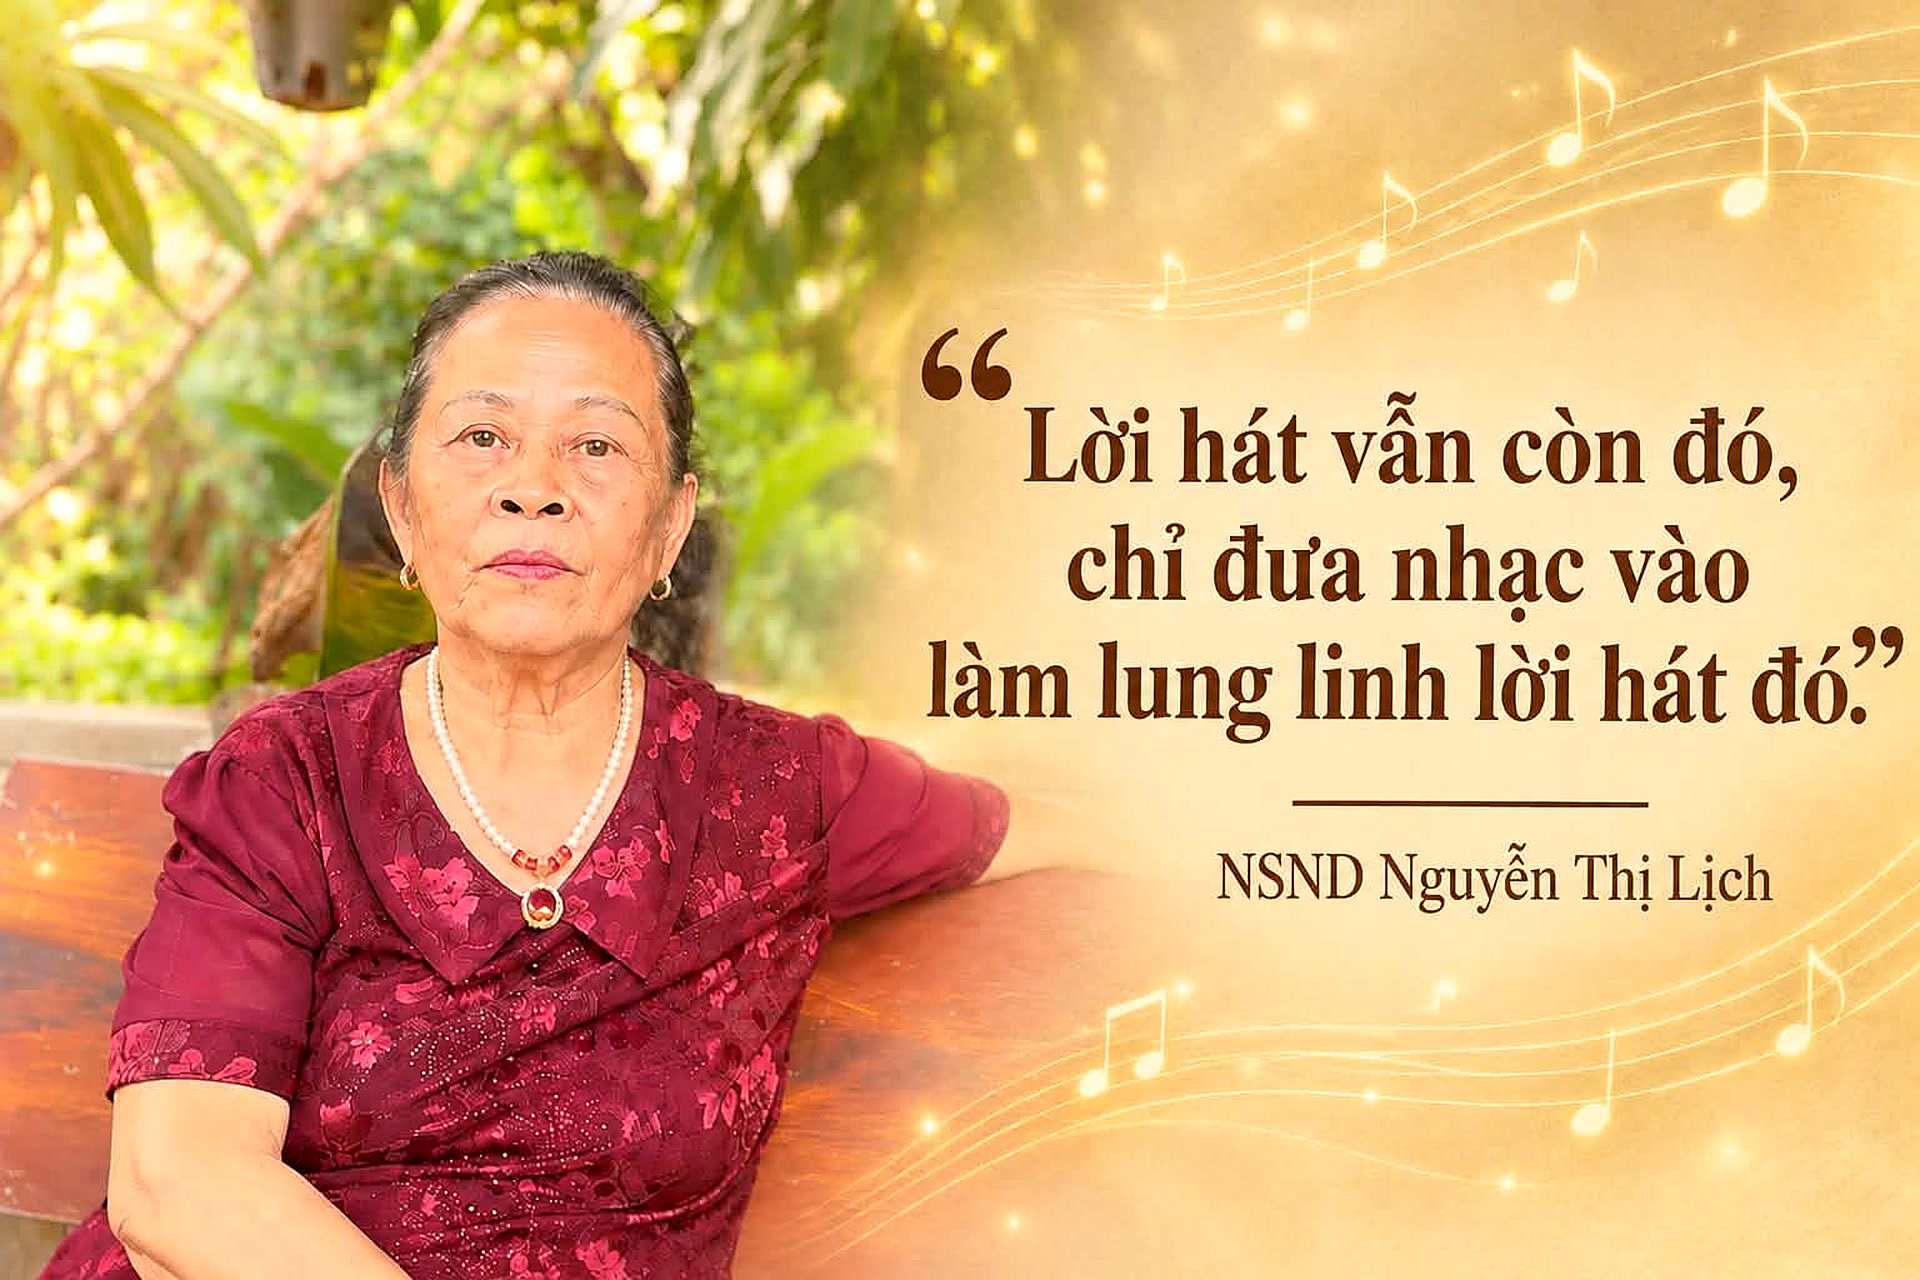
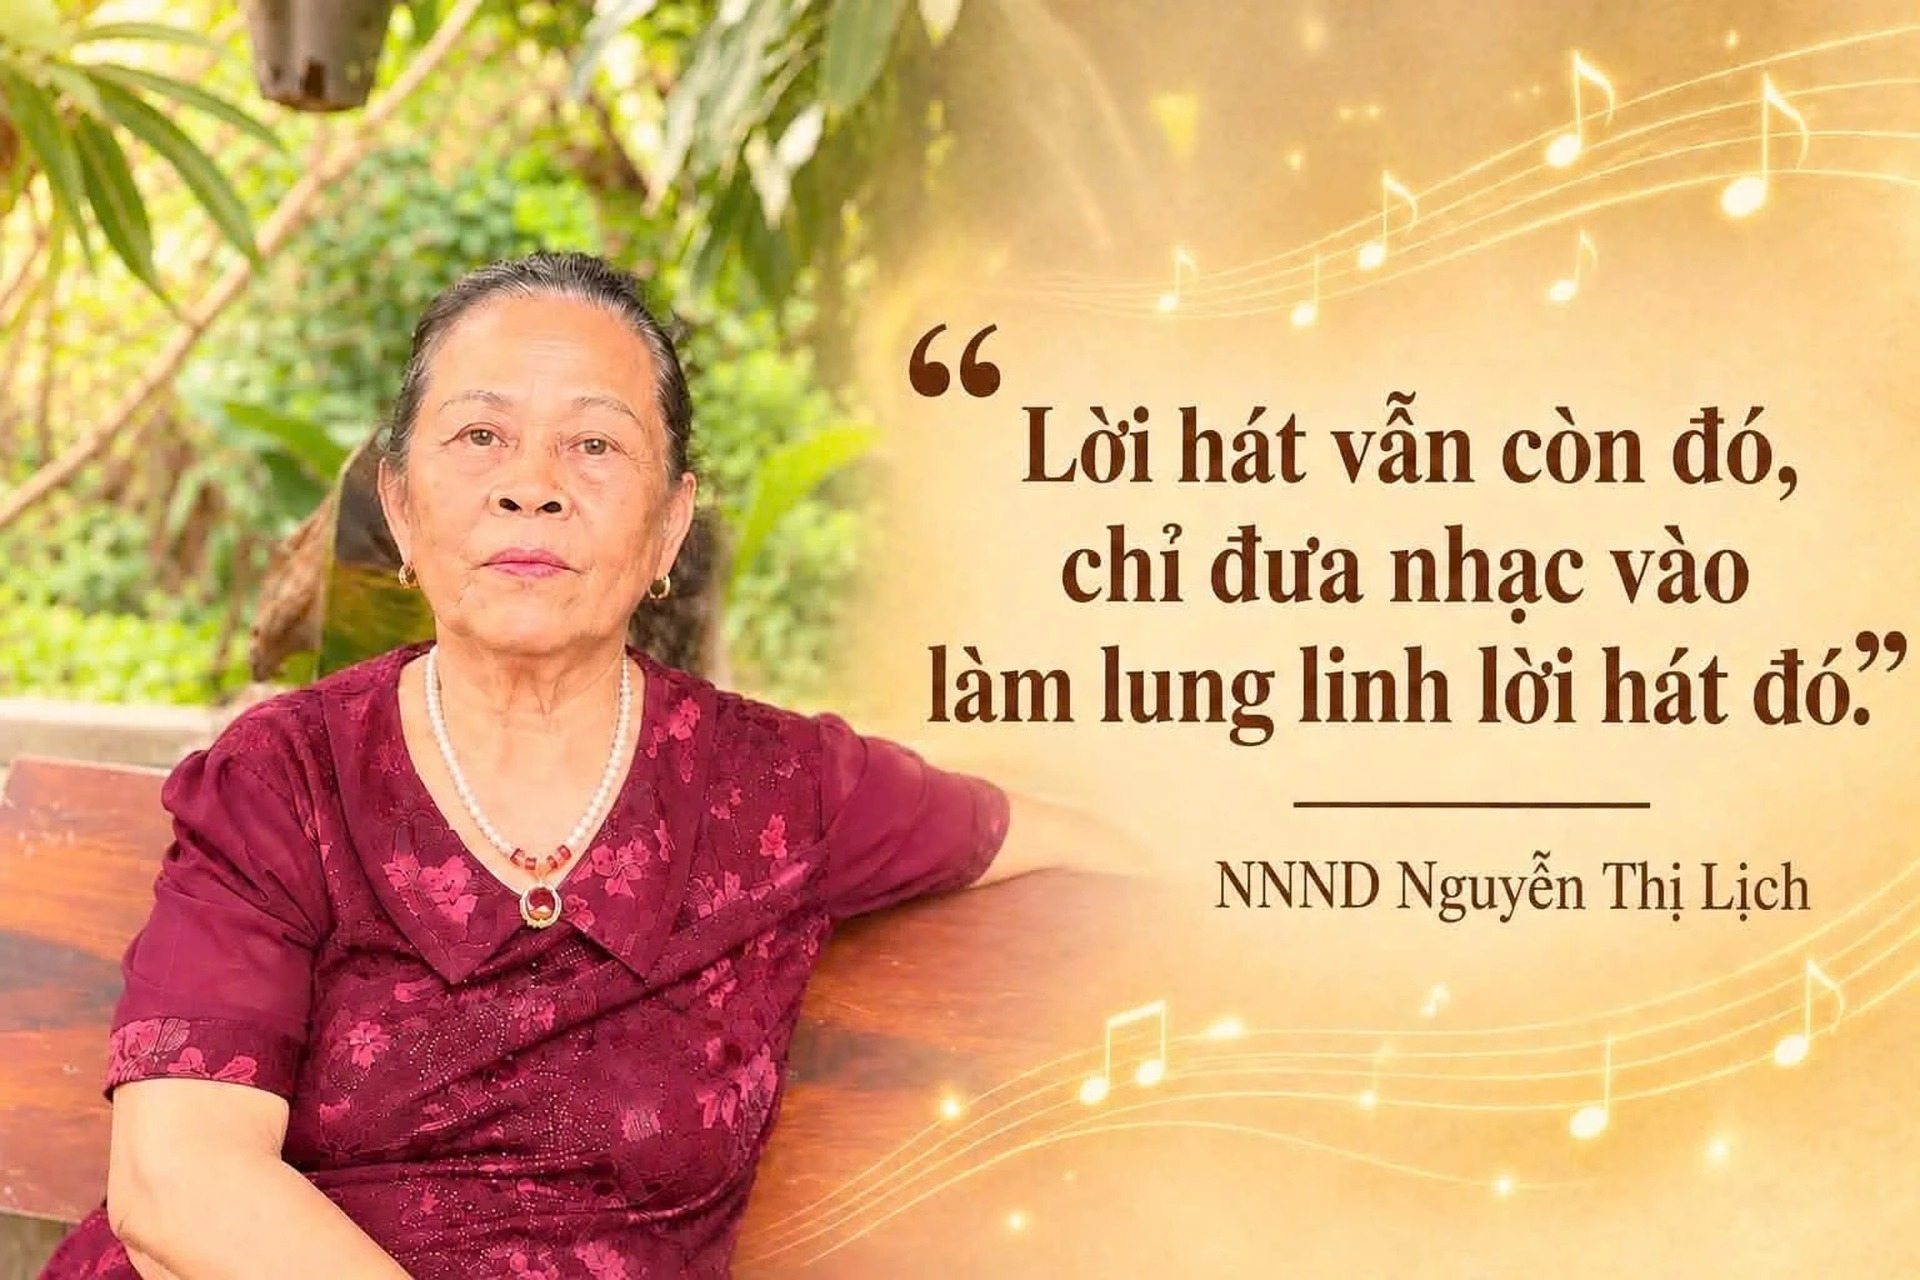
Thay ảnh kết bài bằng bản ghi đúng NNND Nguyễn Thị Lịch

diff --git a/index.html b/index.html
@@ -786,7 +786,7 @@ figure figcaption{font:italic 400 14px/1.5 var(--sans);color:var(--muted);margin
       <figcaption>Trích đoạn Hát Xoan “Bợm gái thết trầu” – “Xin huê đố huê”. Video: Nhóm tác giả thực hiện</figcaption>
     </figure>
   </div>
-  <figure><div class="photo rv" id="endPhoto"><img src="assets/ending-hd.jpg" alt="NNND Nguyễn Thị Lịch: Lời hát vẫn còn đó, chỉ đưa nhạc vào làm lung linh lời hát đó" loading="lazy"></div><figcaption class="wrap">NNND Nguyễn Thị Lịch. Ảnh: Nhóm tác giả thực hiện</figcaption></figure>
+  <figure><div class="photo rv" id="endPhoto"><img src="assets/ending-hd.jpg?v=2" alt="NNND Nguyễn Thị Lịch: Lời hát vẫn còn đó, chỉ đưa nhạc vào làm lung linh lời hát đó" loading="lazy"></div><figcaption class="wrap">NNND Nguyễn Thị Lịch. Ảnh: Nhóm tác giả thực hiện</figcaption></figure>
   <div class="wrap prose">
     <p class="rv">Người trẻ không chỉ nghe nhạc truyền thống mà họ đang tìm cách sống cùng nó: học từng nhịp phách với nghệ nhân, rồi mang câu hát ấy vào những cách kể mới. Để ngọn lửa truyền thống cháy bền trong thời đại số, đâu là phần cần giữ nguyên và đâu là phần có thể làm mới?</p>
     <p class="rv">Từ bản phối điện tử đến lớp học nhạc cụ dân tộc, người trẻ đang tiếp cận văn hóa truyền thống bằng nhiều con đường. Hành trình đưa văn hóa truyền thống đến gần đời sống đương đại vẫn đang tiếp diễn, với sự tham gia của người trẻ, nghệ nhân và công nghệ.</p>
